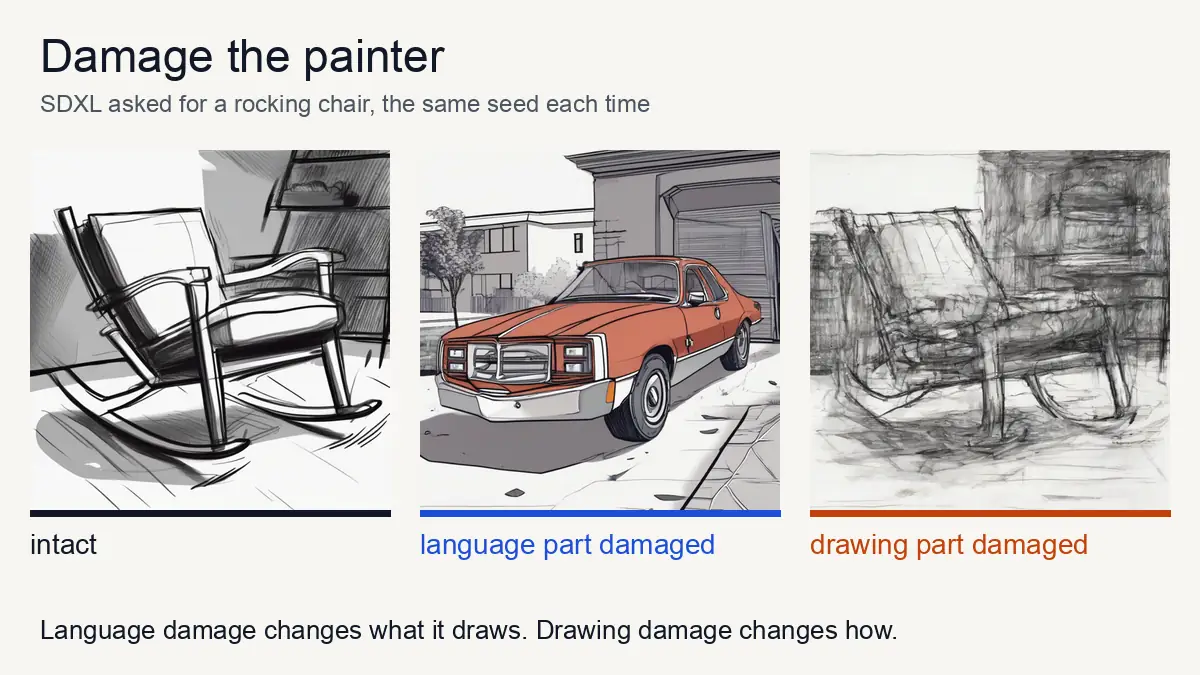
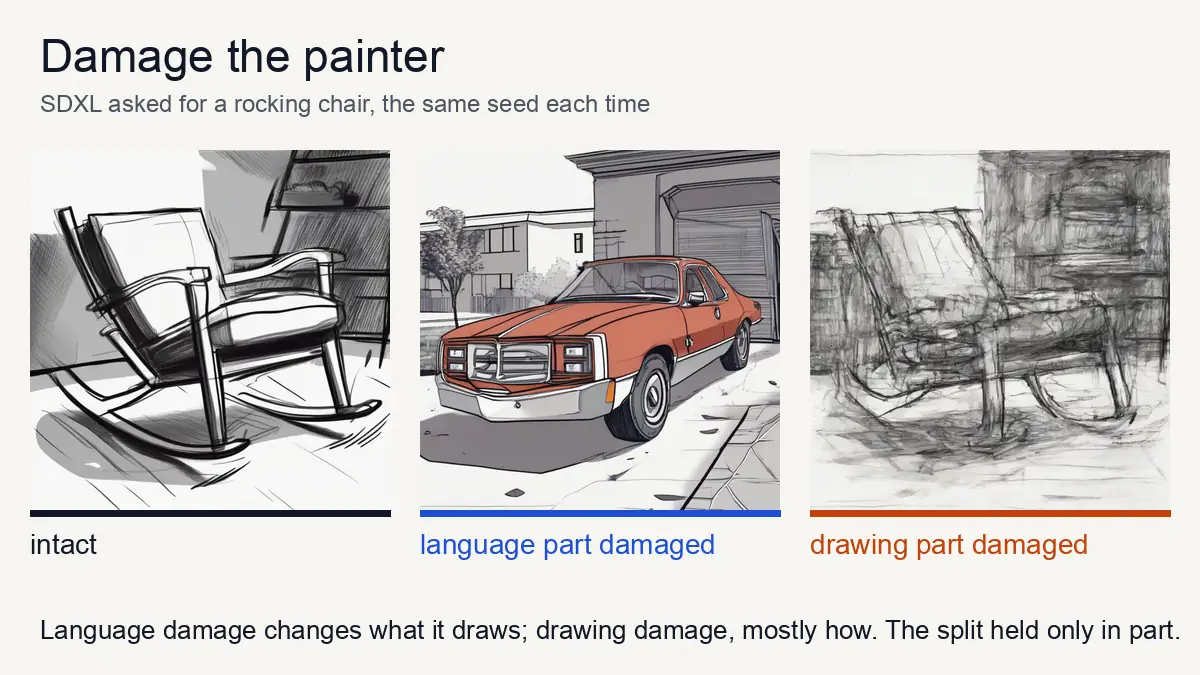
Final audit: claims match the docs, the blind draw holds on the landing page, one header on every series page
Numbers and claims
- Damage: the series card, its picture caption, the page's share texts and Socrates' short answer no longer
  imply a clean what/how split; the planned double dissociation is "held only in part". Neurology links on
  the damage page are labelled as analogies.
- Inside: the collapse is "by about layer 36 (the median over 35 things)", not "from about layer 30"; the
  series card no longer gives the 35-thing median and mean as the chair's own numbers.
- Atlas card: a lighter is the only thing Muse "clearly" varies more (4 of 135 are above 1).
- Tour: umbrella as the most uniform thing is DINOv2's view.
- Lifespan card and Socrates: the sketch model ends narrower in all 8 chair runs, not for cats (Socrates
  had the one-run 13% -> 80%; now 18% -> 87%).
- /plato: Muse Image's textbook drawing is its default.
- README: Atlas and Telephone rows, the robustness result, the full "Built during the hackathon" table,
  the Bozeat sentence no longer implies the model did what semantic-dementia drawings do.
- Socrates can answer about the Atlas and Telephone (experiments, aliases, short answers).
- Wording: no "diagnose" on Plato pages or the README's Plato section; "decline" out of the lifespan doc.
- NOTICE lists SD v1.x, Janus-Pro, the Banks & Connell norms and the children's statistics.

Function
- The landing page's "life of a chair" card showed Muse Image's chair before the blind draw; it shows its
  line icon until the reveal (site.py "blind_art").
[…]

Changed region(s): [[0.4317, 0.9022, 0.9867, 0.9644]]

diff --git a/metalesionlab/web/pages/plato_damage.html b/metalesionlab/web/pages/plato_damage.html
@@ -4,9 +4,9 @@
 <meta charset="utf-8">
 <meta name="viewport" content="width=device-width, initial-scale=1">
 <title>Damage the painter · {{BRAND}}</title>
-<meta name="description" content="Damage the language part of an AI that draws and it loses what it is drawing: a rocking chair wanders into a room, a car or a person, never back to the plain chair. Damage its drawing part and the lines dissolve while the kind survives more often. An experiment on Stable Diffusion XL, Meta’s Muse Glimmer and Janus-Pro.">
+<meta name="description" content="Damage the language part of an AI that draws and it loses what it is drawing: a rocking chair wanders into a room, a car or a person, never back to the plain chair. Damage its drawing part and the kind survives more often; the planned split held only in part. An experiment on Stable Diffusion XL, Meta’s Muse Glimmer and Janus-Pro.">
 <meta property="og:title" content="Damage the painter: what happens to the Form when the mind is damaged? · {{BRAND}}">
-<meta property="og:description" content="Damage an AI’s language part and a rocking chair turns into a car, never back into the plain chair. Damage its drawing part and the lines dissolve instead.">
+<meta property="og:description" content="Damage an AI’s language part and a rocking chair turns into a car, never back into the plain chair. Damage its drawing part and the kind survives more often.">
 <link rel="icon" href="/static/img/favicon.svg" type="image/svg+xml">
 <link rel="preconnect" href="https://fonts.googleapis.com">
 <link rel="preconnect" href="https://fonts.gstatic.com" crossorigin>
@@ -25,10 +25,11 @@
 
 <section class="pd-hero" aria-labelledby="hero-h">
   <div class="pd-hero-text">
-    <a class="pd-back" href="/plato">← Plato’s Chair</a>
-    <span class="pd-kicker">An experiment on three AI models</span>
-    <h1 id="hero-h">Plato’s Chair, damaged</h1>
-    <p class="pd-lede">Plato said every real chair copies one ideal Form. An AI that draws has a part that reads the words and a part that draws. We damaged each part, step by step, and asked it for a rocking chair.</p>
+    <div class="title-pair">
+      <p class="title-kicker">What would Plato ask an AI? <span class="kicker-q">What happens to the Form when the mind is damaged? · our own question · <a href="/plato">Plato series</a></span></p>
+      <h1 id="hero-h">Plato’s Chair, damaged</h1>
+    </div>
+    <p class="pd-lede">Plato said every real chair copies one ideal Form. An AI that draws (here Stable Diffusion XL) has a part that reads the words and a part that draws. We damaged each part, step by step, and asked it for a rocking chair.</p>
     <p class="pd-answer" id="hero-answer">Damage the language part and it loses <b>what</b> it is drawing: the rocking chair becomes a room, a car, a person, never the plain chair. Damage the drawing part and it loses <b>how</b>: the lines dissolve, and the rocking chair survives more often. The planned split held only in part (see “The Form or the hand”).</p>
   </div>
 
@@ -75,7 +76,7 @@
 
 <section class="pd-sec" aria-labelledby="proto-h">
   <h2 id="proto-h">Does it go back to Plato’s chair?</h2>
-  <p class="pd-intro">In semantic dementia, people’s drawings lose the details that make a thing special and drift toward the typical member of its category: a duck gets four legs (Bozeat and colleagues, 2003). We predicted the same here: a damaged language part should turn the rocking chair back into the plain chair.</p>
+  <p class="pd-intro">In semantic dementia, people’s drawings lose the details that make a thing special and drift toward the typical member of its category: a duck gets four legs (Bozeat and colleagues, 2003). Taking that as an analogy, not a claim about people, we predicted the same here: a damaged language part should turn the rocking chair back into the plain chair.</p>
   <div class="pd-proto" id="proto"></div>
   <div class="pd-names" id="names"></div>
 </section>
@@ -94,7 +95,7 @@
 
 <section class="pd-sec" aria-labelledby="clock-h">
   <h2 id="clock-h">Clocks</h2>
-  <p class="pd-intro">Drawing a clock is an old drawing task in neurology. We asked SDXL for “a simple clock face showing” six different times, intact and damaged, and had Muse Spark read each clock with a checklist we wrote (outline, the 12 numbers in order, two hands, the time shown).</p>
+  <p class="pd-intro">Drawing a clock is an old drawing task in neurology; here it is only an analogy. We asked SDXL for “a simple clock face showing” six different times, intact and damaged, and had Muse Spark read each clock with a checklist we wrote (outline, the 12 numbers in order, two hands, the time shown).</p>
   <div class="pd-clocks" id="clocks"></div>
 </section>
 
@@ -102,7 +103,7 @@
   <h2 id="method-h">Method and caveats</h2>
   <ul id="method-list">
     <li><b>The drawer.</b> Stable Diffusion XL base 1.0, on a lab GPU. Its language part is its two text encoders (CLIP ViT-L and OpenCLIP bigG); its drawing part is the UNet. Damage is reversible: hooks change the neurons’ signals on the way through, never the weights.</li>
-    <li><b>Damage.</b> Either a share of the neurons switched off (cumulative: a higher level keeps every neuron a lower one switched off), or Gaussian noise added to every neuron, scaled to each neuron’s normal range. The same seed at every level makes the pictures pairs.</li>
+    <li><b>Damage.</b> Either a share of the neurons switched off (cumulative: a higher level keeps every neuron a lower one switched off), or Gaussian noise added to every neuron, scaled to each neuron’s usual range. The same seed at every level makes the pictures pairs.</li>
     <li><b>Matched severity.</b> The two parts break at different doses, so they are compared at equal amounts of picture change (DINOv2 distance to the intact twin), not at equal doses.</li>
     <li><b>Readers are models.</b> Muse Glimmer judges the kind and the drawing style; Muse Spark reads the clocks; DINOv2 measures similarity. Each can be wrong, and a picture of “a throne” can be a fine drawing of a chair that Glimmer calls plain.</li>
     <li><b>An analogy, not a claim about people.</b> This is a model of how damage to parts of an AI changes its drawings. The link to semantic dementia and to clock drawing is an analogy; nothing here says anything about any person.</li>

diff --git a/metalesionlab/web/static/js/plato.js b/metalesionlab/web/static/js/plato.js
@@ -430,7 +430,7 @@
   function renderInside() {
     var I = S.data.inside, L = I.layer_spread || {}, last = L.L52, r = I.naming;
     if (last) {
-      $('collapse-text').textContent = 'How spread out a thing’s doodles are inside Glimmer, layer by layer (blue: Muse Image’s, orange: people’s). From about layer 30, ' +
+      $('collapse-text').textContent = 'How spread out a thing’s doodles are inside Glimmer, layer by layer (blue: Muse Image’s, orange: people’s). By about layer 36 (the median over the things), ' +
         'Glimmer files all of Muse Image’s doodles of a thing in essentially one place, while people’s stay spread out: at the last layer, ' + f2(last.ai) +
         ' against ' + f2(last.human) + ', wider for people in ' + last.human_wider + ' of ' + last.n + ' things.';
     }
@@ -550,7 +550,7 @@
       text.appendChild(h('p', { class: 'pc-verdict', text: 'No. It’s Meta’s Muse Image, not AI image models in general.' }));
       text.appendChild(h('p', { text: 'With the same prompt, Stable Diffusion XL, an open model from Stability AI, drew far more varied pictures' +
         (times ? ': about ' + times + ' times Muse Image’s spread' : '') + ', and more varied for ' + sx.muse_more_uniform + ' of ' + n + ' things.' }));
-      text.appendChild(h('p', { text: 'Muse Image draws the textbook version of each object. That’s useful for standardized test pictures, which need clear, typical drawings that everyone names the same way, and it’s why ' + (T.hasPage('/studio') ? 'Test Studio uses it' : 'our sister project’s picture-naming tests use it') + '. But it underrepresents how differently people picture things.' }));
+      text.appendChild(h('p', { text: 'By default, Muse Image draws the textbook version of each object (asked for named kinds, it varies as much as people or more). That’s useful for standardized test pictures, which need clear, typical drawings that everyone names the same way, and it’s why ' + (T.hasPage('/studio') ? 'Test Studio uses it' : 'our sister project’s picture-naming tests use it') + '. But its default underrepresents how differently people picture things.' }));
     } else {
       text.appendChild(h('p', { text: 'We gave Stable Diffusion XL, an open model from Stability AI, the same prompt. ' +
         (mi < 1 ? 'Its drawings were also more alike than people’s (median ratio ' + f2(mi) + ').' : 'Its drawings were not more alike than people’s (median ratio ' + f2(mi) + ', people = 1).') +

diff --git a/metalesionlab/web/static/js/tour.js b/metalesionlab/web/static/js/tour.js
@@ -62,7 +62,9 @@
 
   // --- the steps: Socrates asks (q), then points (p) -----------------------------------------------
   var STEPS = [
-    { page: '/', url: '/', id: 'ask', target: '#hero-draw', face: 'questioning', kicker: 'Is there one ideal chair?', blind: true,
+    { page: '/', url: '/', id: 'ask', target: '#hero-draw', face: 'questioning',
+      // on a phone the caption sheet covers the bottom of the screen: light up the pad and its buttons, not the whole hero
+      phoneTarget: ['#canvas-wrap', '#hero-draw .dw-actions'], kicker: 'Is there one ideal chair?', blind: true,
       skip: function () { return !landingPad(); },
       q: 'Before I tell you anything: what is a chair? Draw one, and we’ll see.',
       p: function () {
@@ -93,7 +95,7 @@
 
     { page: '/plato', url: '/plato#everything', face: 'questioning', kicker: 'Not just chairs', target: '#rank-chart', before: platoReady, skip: noPlato,
       q: 'Was it only the chair, or does the machine do this with everything?',
-      p: 'We tried 35 things. Each dot is one; left of the line, Muse Image drew it more alike than people did. That’s 34 of 35, typically about half as varied (0.49). Umbrellas are the most uniform; books, the one exception.' },
+      p: 'We tried 35 things. Each dot is one; left of the line, Muse Image drew it more alike than people did. That’s 34 of 35, typically about half as varied (0.49). Umbrellas are the most uniform as DINOv2 sees it (other vision models rank them differently); books, the one exception.' },
 
     { page: '/plato', url: '/plato#variety', face: 'pointing', kicker: 'Can you talk it out of the chair?', target: '#var-fig', before: platoReady,
       skip: function () { var d = P(); return !d || !d.variety || !d.variety.conditions || !d.variety.conditions.listed; },
@@ -193,7 +195,7 @@
   }
 
   function targetsFor(step) {
-    var t = val(step.target);
+    var t = phone() && step.phoneTarget ? val(step.phoneTarget) : val(step.target);
     if (!t) return [];
     return [].concat(t).map(function (sel) { return q(sel); }).filter(visible);
   }

diff --git a/metalesionlab/web/static/css/plato_cratylus.css b/metalesionlab/web/static/css/plato_cratylus.css
@@ -6,8 +6,6 @@ body.cratylus { background: #F7F6F1; }
 .ck-hero { background: var(--panel); border: 1px solid var(--line); border-radius: 16px; padding: clamp(32px, 2.5vw, 64px); display: grid;
   grid-template-columns: minmax(0, 0.95fr) minmax(0, 1.2fr); gap: 24px clamp(36px, 4vw, 112px); align-items: start; }
 .ck-hero-text { display: flex; flex-direction: column; gap: 14px; min-width: 0; }
-.ck-kicker { font-family: var(--mono); font-size: 12px; color: var(--orange-dark); letter-spacing: 0.02em; }
-.ck-kicker a { color: var(--orange-dark); }
 .ck-hero h1 { margin: 0; font-size: var(--fs-h1); letter-spacing: -0.02em; line-height: 1.02; }
 .ck-lede { margin: 0; font-size: clamp(19px, calc(13px + 0.45vw), 25px); line-height: 1.55; color: var(--ink-2); max-width: var(--measure); }
 .ck-hero figure { margin: 0; display: flex; flex-direction: column; gap: 8px; min-width: 0; }
@@ -67,6 +65,7 @@ body.cratylus { background: #F7F6F1; }
 .ck-tip { position: absolute; pointer-events: none; background: var(--ink); color: #F9FAFB; border-radius: 8px; padding: 8px 10px;
   font-size: 12px; line-height: 1.5; z-index: 3; box-shadow: 0 6px 18px rgba(0, 0, 0, 0.2); max-width: 280px; }
 .ck-tip b { font-size: 14px; }
+.ck-numbers { max-width: 100%; overflow-x: auto; }  /* the words table scrolls inside its column on a phone */
 .ck-numbers summary { cursor: pointer; font-weight: 600; color: var(--blue); padding: 6px 0; font-size: 14px; }
 .ck-numbers table { margin-top: 8px; font-size: 14px; border-collapse: collapse; }
 .ck-numbers th, .ck-numbers td { padding: 4px 10px; border-bottom: 1px solid var(--line); text-align: left; }
@@ -84,6 +83,6 @@ body.cratylus { background: #F7F6F1; }
   .ck-method li { break-inside: avoid; margin-bottom: 10px; }
 }
 @media (max-width: 900px) {
-  .ck-hero, .ck-two, .ck-try { grid-template-columns: 1fr; }
+  .ck-hero, .ck-two, .ck-try { grid-template-columns: minmax(0, 1fr); }
   .ck-hero, .ck-sec { padding: 22px 16px; }
 }

diff --git a/metalesionlab/web/static/css/app.css b/metalesionlab/web/static/css/app.css
@@ -274,6 +274,7 @@ dialog::backdrop { background: rgba(17, 24, 39, 0.55); }
 .series-art { display: flex; align-items: center; justify-content: center; height: clamp(132px, 7.5vw, 190px); background: #FCFCFB; border-bottom: 1px solid #ECEAE4; color: var(--ink); }
 .series-art svg { width: 120px; height: 90px; }
 .series-art img { width: 100%; height: 100%; object-fit: cover; }
+.series-art-blind > svg { display: none; }  /* its icon stands in on the landing page until the reveal (landing.css) */
 .series-body { display: flex; flex-direction: column; gap: 6px; padding: 16px 18px 18px; flex: 1; }
 .series-q { font-size: clamp(19px, calc(13px + 0.5vw), 25px); font-weight: 700; line-height: 1.22; letter-spacing: -0.01em; }
 .series-src { font-family: var(--mono); font-size: 12px; color: var(--muted); }
@@ -293,5 +294,6 @@ dialog::backdrop { background: rgba(17, 24, 39, 0.55); }
   letter-spacing: -0.012em; color: var(--orange-dark); }
 .title-kicker::before { content: ""; flex: none; width: 1.1em; height: 2px; border-radius: 1px; background: currentColor; opacity: 0.85; }
 .title-kicker .kicker-q { flex-basis: 100%; margin-top: 0.25em; font-size: max(0.6em, 0.875rem); font-weight: 400; letter-spacing: 0; color: var(--ink-2); }
+.title-kicker .kicker-q a { color: inherit; }  /* "Plato series", the way back on every series page */
 .series-draw a { font-weight: 600; }
 

diff --git a/metalesionlab/web/pages/plato_atlas.html b/metalesionlab/web/pages/plato_atlas.html
@@ -23,8 +23,10 @@
 
 <section class="at-hero" aria-labelledby="hero-h">
   <div class="at-hero-text">
-    <span class="at-kicker"><a href="/plato">Plato series</a> · Republic X, the Forms · 135 everyday things</span>
-    <h1 id="hero-h">The Atlas of Forms</h1>
+    <div class="title-pair">
+      <p class="title-kicker">What would Plato ask an AI? <span class="kicker-q">Is every thing one Form, or only some? · <i>Republic</i> X · <a href="/plato">Plato series</a></span></p>
+      <h1 id="hero-h">The Atlas of Forms</h1>
+    </div>
     <p class="at-lede">Plato thought every everyday thing, a chair, a cup, a cat, has one ideal Form, and that the things we see are copies of it. We asked Meta’s image model, Muse Image, to doodle 135 everyday things, at least 12 times each. Then we set its drawings beside people’s.</p>
     <p class="at-answer" id="answer">…</p>
   </div>
@@ -139,7 +141,7 @@ python scripts/plato_benchmark.py my_model \
 
 <div class="note note-error" id="load-error" hidden></div>
 </main>
-<p class="footnote">Research and teaching use only. {{BRAND}} doesn't diagnose and doesn't give medical or treatment advice.</p>
+<p class="footnote">Research and teaching use only. Nothing here is medical advice.</p>
 </div>
 
 <dialog class="at-dialog" id="detail" aria-labelledby="d-title">

diff --git a/metalesionlab/web/pages/plato_cave.html b/metalesionlab/web/pages/plato_cave.html
@@ -23,9 +23,11 @@
 
 <section class="cv-hero" aria-labelledby="hero-h">
   <div class="cv-hero-text">
-    <span class="cv-kicker"><a href="/plato">Plato series</a> · Republic VII, the Cave · Meta’s open model Muse Glimmer</span>
-    <h1 id="hero-h">Name the shadow</h1>
-    <p class="cv-lede">Plato’s prisoners see only shadows on the cave wall and take them for the things themselves. We showed an AI 100 everyday objects as bare shadows. How much of a thing survives as a shadow, and does the AI lose the same things people do?</p>
+    <div class="title-pair">
+      <p class="title-kicker">What would Plato ask an AI? <span class="kicker-q">Can you know a thing from its shadow? · <i>Republic</i> VII, the Cave · <a href="/plato">Plato series</a></span></p>
+      <h1 id="hero-h">Name the shadow</h1>
+    </div>
+    <p class="cv-lede">Plato’s prisoners see only shadows on the cave wall and take them for the things themselves. We showed Meta’s open model Muse Glimmer 100 everyday objects as bare shadows. How much of a thing survives as a shadow, and does the AI lose the same things people do?</p>
     <p class="cv-lede" id="hero-answer">It named most of them. When it failed, its favorite answer was the word “Shadow”.</p>
   </div>
   <figure>

diff --git a/metalesionlab/web/pages/plato_inside.html b/metalesionlab/web/pages/plato_inside.html
@@ -23,9 +23,10 @@
 
 <section class="pi-hero" aria-labelledby="hero-h">
   <div class="pi-hero-text">
-    <a class="pi-back" href="/plato">← Plato’s Chair</a>
-    <span class="pi-kicker">The Plato series · Inside Meta’s open model Muse Glimmer 30B</span>
-    <h1 id="hero-h">Inside the model</h1>
+    <div class="title-pair">
+      <p class="title-kicker">What would Plato ask an AI? <span class="kicker-q">What happens to a drawing inside the machine? · <i>Republic</i> VII · <a href="/plato">Plato series</a></span></p>
+      <h1 id="hero-h">Inside the model</h1>
+    </div>
     <p class="pi-lede">Plato thought every chair copies one ideal chair. We gave Meta’s open model Muse Glimmer the doodles from <a href="/plato">Plato’s Chair</a>, Muse Image’s and people’s, and read its state after each of its 52 layers. First it sees a drawing. Layer by layer, it settles on a name.</p>
     <p class="pi-answer" id="hero-answer">Muse Image’s doodles of a thing arrive at one idea: by the naming layers they sit almost on one point. People’s doodles never do.</p>
   </div>

diff --git a/metalesionlab/web/pages/plato_cratylus.html b/metalesionlab/web/pages/plato_cratylus.html
@@ -23,8 +23,10 @@
 
 <section class="ck-hero" aria-labelledby="hero-h">
   <div class="ck-hero-text">
-    <span class="ck-kicker"><a href="/plato">Plato series</a> · Cratylus · Muse Image, Muse Glimmer and Muse Spark</span>
-    <h1 id="hero-h">Bouba and kiki</h1>
+    <div class="title-pair">
+      <p class="title-kicker">What would Plato ask an AI? <span class="kicker-q">Do names fit things by nature? · <i>Cratylus</i> · <a href="/plato">Plato series</a></span></p>
+      <h1 id="hero-h">Bouba and kiki</h1>
+    </div>
     <p class="ck-lede">In the <i>Cratylus</i>, Socrates asks whether names fit things by nature. People all over the world call a round blob “bouba” and a spiky star “kiki”. Meta’s image model has never heard a word. We asked it to draw a shape called “bouba”, and one called “kiki”.</p>
     <p class="ck-lede" id="hero-answer">It draws them exactly as people would. But a new word with kiki’s sounds, “keti”, comes out round: it learned the famous words, not the sounds.</p>
     <div class="ck-tiles" id="tiles" aria-live="polite"></div>

diff --git a/metalesionlab/web/pages/plato.html b/metalesionlab/web/pages/plato.html
@@ -174,7 +174,7 @@
       <h3>Muse Image’s doodles collapse to one point</h3>
       <img src="/static/img/plato/spread_by_layer.webp" width="1200" height="560" loading="lazy"
            alt="Line chart over Glimmer's 52 layers. The spread of people's doodles (orange) stays between about 0.5 and 0.7 throughout. The spread of Muse Image's doodles (blue) tracks just below it until about layer 28, then falls steeply to about 0.1 by layer 40 and stays there.">
-      <p id="collapse-text">Each line shows how spread out a thing’s doodles are inside Glimmer, layer by layer. From about layer 30, Glimmer files all of Muse Image’s chairs in essentially one place, while people’s drawings stay spread out.</p>
+      <p id="collapse-text">Each line shows how spread out a thing’s doodles are inside Glimmer, layer by layer. By about layer 36 (the median over 35 things), Glimmer files all of Muse Image’s doodles of a thing in essentially one place, while people’s drawings stay spread out.</p>
     </article>
     <article class="pc-card">
       <h3>Harder to name</h3>

diff --git a/metalesionlab/web/static/css/plato_cave.css b/metalesionlab/web/static/css/plato_cave.css
@@ -8,8 +8,9 @@ body.cave { background: #F7F6F1; }
 .cv-hero { background: #17110c; color: #f3e9da; border-radius: 16px; padding: clamp(32px, 2.5vw, 64px); display: grid;
   grid-template-columns: minmax(0, 0.9fr) minmax(0, 1.3fr); gap: 28px clamp(36px, 4vw, 112px); align-items: center; }
 .cv-hero-text { display: flex; flex-direction: column; gap: 14px; min-width: 0; }
-.cv-kicker { font-family: var(--mono); font-size: 12px; color: #f0a35e; letter-spacing: 0.02em; }
-.cv-kicker a { color: #f0a35e; }
+/* the shared title kicker (app.css), lit by the fire on the dark wall */
+.cv-hero .title-kicker { color: #f0a35e; }
+.cv-hero .title-kicker .kicker-q { color: #d9cbb6; }
 .cv-hero h1 { margin: 0; font-size: var(--fs-h1); letter-spacing: -0.02em; line-height: 1.02; color: #fff7ec; }
 .cv-lede { margin: 0; font-size: clamp(19px, calc(13px + 0.45vw), 25px); line-height: 1.55; color: #e8dccb; max-width: var(--measure); }
 .cv-hero figure { margin: 0; display: flex; flex-direction: column; gap: 8px; min-width: 0; }

diff --git a/metalesionlab/web/static/css/gallery-strip.css b/metalesionlab/web/static/css/gallery-strip.css
@@ -47,6 +47,7 @@
 .lab-card-title { color: var(--lab-ink); font-weight: 600; font-size: clamp(15px, 1vw, 17px); line-height: 1.3; text-decoration: none; }
 .lab-card-title::after { content: ""; position: absolute; inset: 0; z-index: 1; }  /* the whole card opens the gallery */
 .lab-card-cap { font-size: 13px; color: var(--lab-muted); white-space: nowrap; overflow: hidden; text-overflow: ellipsis; }
+.lab-card-credit { font-size: 11px; color: var(--lab-muted); opacity: 0.85; white-space: nowrap; overflow: hidden; text-overflow: ellipsis; }
 .lab-card-go { position: relative; z-index: 2; align-self: flex-start; margin-top: 2px; font-size: 13px; color: var(--lab-gold); }
 .lab-card:hover .lab-card-title { text-decoration: underline; text-underline-offset: 3px; }
 .lab-card-all { justify-content: center; align-items: center; padding: 24px; text-align: center; background: transparent;
